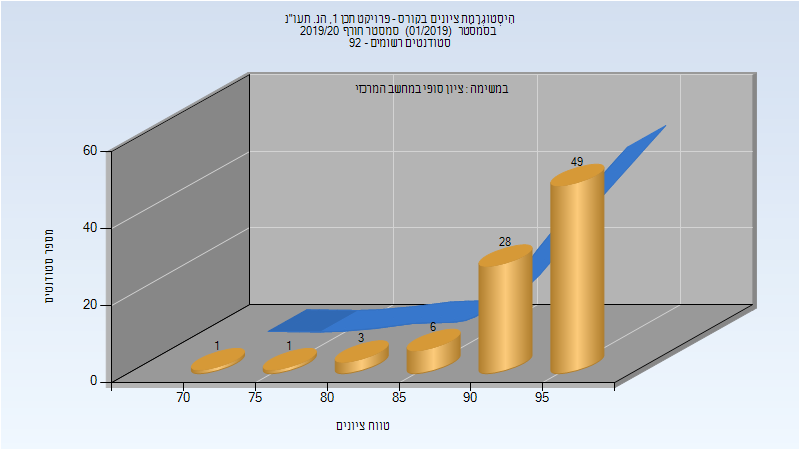
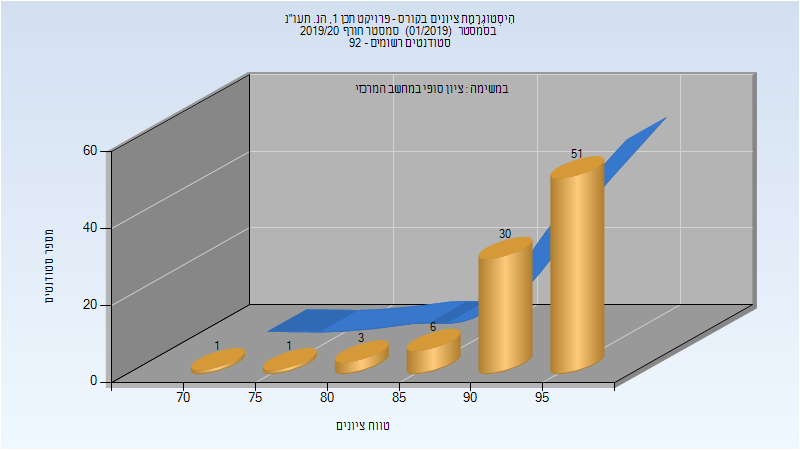
Deploy michael-maltsev/technion-histograms to github.com/michael-maltsev/technion-histograms.git:gh-pages

Changed region(s): [[0.6875, 0.2489, 0.8438, 0.4356], [0.5938, 0.4978, 0.6875, 0.5911]]

diff --git a/094170/index.html b/094170/index.html
@@ -20,6 +20,36 @@
   <body>
     <h1>094170 - שיטות בהנדסת תעשיה</h1>
 <h2>חורף 2019-2020</h2>
+<table>
+<thead>
+<tr>
+<th>איש סגל</th>
+<th>תפקיד</th>
+</tr>
+</thead>
+<tbody>
+<tr>
+<td>לויפר שלומי</td>
+<td>מרצה - אחראי מקצוע</td>
+</tr>
+<tr>
+<td>בנבנישתי אלעד</td>
+<td>מתרגל - עם הרשאות מרצה אחראי</td>
+</tr>
+<tr>
+<td>אשור רועי</td>
+<td>מתרגל - עם הרשאות מרצה אחראי</td>
+</tr>
+<tr>
+<td>זיו דוד מורן</td>
+<td>סגל מנהלי - עם הרשאות מרצה אחראי</td>
+</tr>
+<tr>
+<td>אגסי זיוה</td>
+<td>סגל מנהלי - עם הרשאות מרצה אחראי</td>
+</tr>
+</tbody>
+</table>
 <h3>מבחן מועד א'</h3>
 <p><img src="201901/Exam_A.png" alt="201901 Exam_A" /></p>
 <table>

diff --git a/097151/index.html b/097151/index.html
@@ -20,6 +20,28 @@
   <body>
     <h1>097151 - תכן מתקנים</h1>
 <h2>חורף 2019-2020</h2>
+<table>
+<thead>
+<tr>
+<th>איש סגל</th>
+<th>תפקיד</th>
+</tr>
+</thead>
+<tbody>
+<tr>
+<td>בן-דוד אילנה</td>
+<td>מרצה - אחראי מקצוע</td>
+</tr>
+<tr>
+<td>אגסי זיוה</td>
+<td>סגל מנהלי - עם הרשאות מרצה אחראי</td>
+</tr>
+<tr>
+<td>זיו דוד מורן</td>
+<td>סגל מנהלי - עם הרשאות מרצה אחראי</td>
+</tr>
+</tbody>
+</table>
 <h3>סופי</h3>
 <p><img src="201901/Finals.png" alt="201901 Finals" /></p>
 <table>

diff --git a/094195/index.html b/094195/index.html
@@ -137,12 +137,12 @@
 </thead>
 <tbody>
 <tr>
-<td>88</td>
-<td>88/0</td>
+<td>92</td>
+<td>92/0</td>
 <td>100</td>
 <td>73</td>
 <td>98</td>
-<td>93.386</td>
+<td>93.391</td>
 <td>95</td>
 </tr>
 </tbody>

diff --git a/094170/README.md b/094170/README.md
@@ -2,6 +2,14 @@
 
 ## חורף 2019-2020
 
+| איש סגל | תפקיד |
+| ---- | ---- |
+| לויפר שלומי | מרצה - אחראי מקצוע |
+| בנבנישתי אלעד | מתרגל - עם הרשאות מרצה אחראי |
+| אשור רועי | מתרגל - עם הרשאות מרצה אחראי |
+| זיו דוד מורן | סגל מנהלי - עם הרשאות מרצה אחראי |
+| אגסי זיוה | סגל מנהלי - עם הרשאות מרצה אחראי |
+
 ### מבחן מועד א'
 
 ![201901 Exam_A](201901/Exam_A.png)

diff --git a/097151/README.md b/097151/README.md
@@ -2,6 +2,12 @@
 
 ## חורף 2019-2020
 
+| איש סגל | תפקיד |
+| ---- | ---- |
+| בן-דוד אילנה | מרצה - אחראי מקצוע |
+| אגסי זיוה | סגל מנהלי - עם הרשאות מרצה אחראי |
+| זיו דוד מורן | סגל מנהלי - עם הרשאות מרצה אחראי |
+
 ### סופי
 
 ![201901 Finals](201901/Finals.png)

diff --git a/094195/README.md b/094195/README.md
@@ -39,5 +39,5 @@
 
 | סטודנטים | עברו/נכשלו | אחוז עוברים | ציון מינימלי | ציון מקסימלי | ממוצע | חציון |
 | ---- | ---- | ---- | ---- | ---- | ---- | ---- |
-| 88 | 88/0 | 100 | 73 | 98 | 93.386 | 95 |
+| 92 | 92/0 | 100 | 73 | 98 | 93.391 | 95 |
 
